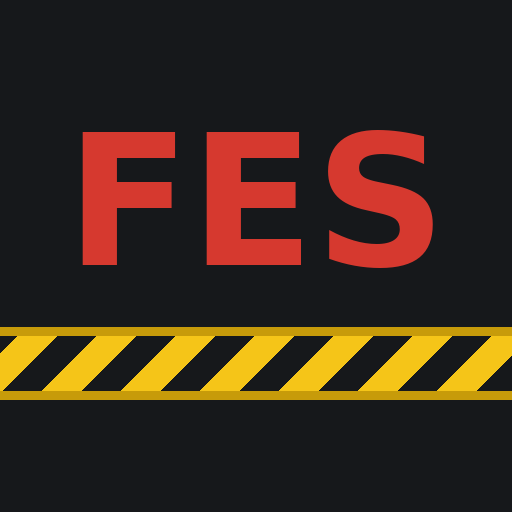
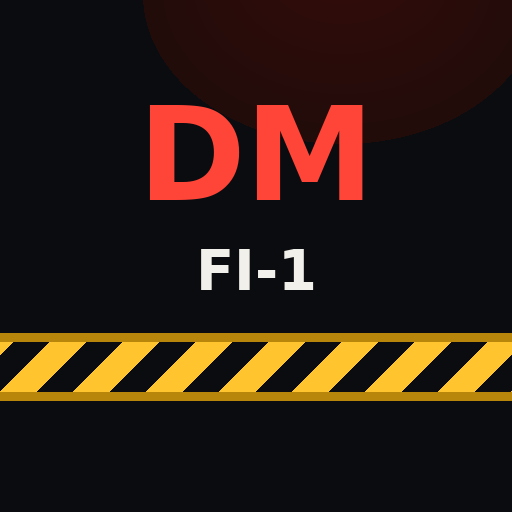
Add files via upload

diff --git a/sw.js b/sw.js
@@ -1,4 +1,4 @@
-const CACHE = "fes-trainer-v4";
+const CACHE = "drillmaster-v5";
 const ASSETS = ["./index.html", "./manifest.webmanifest", "./icon-180.png", "./icon-512.png"];
 self.addEventListener("install", e => {
   e.waitUntil(caches.open(CACHE).then(c => c.addAll(ASSETS)).then(() => self.skipWaiting()));